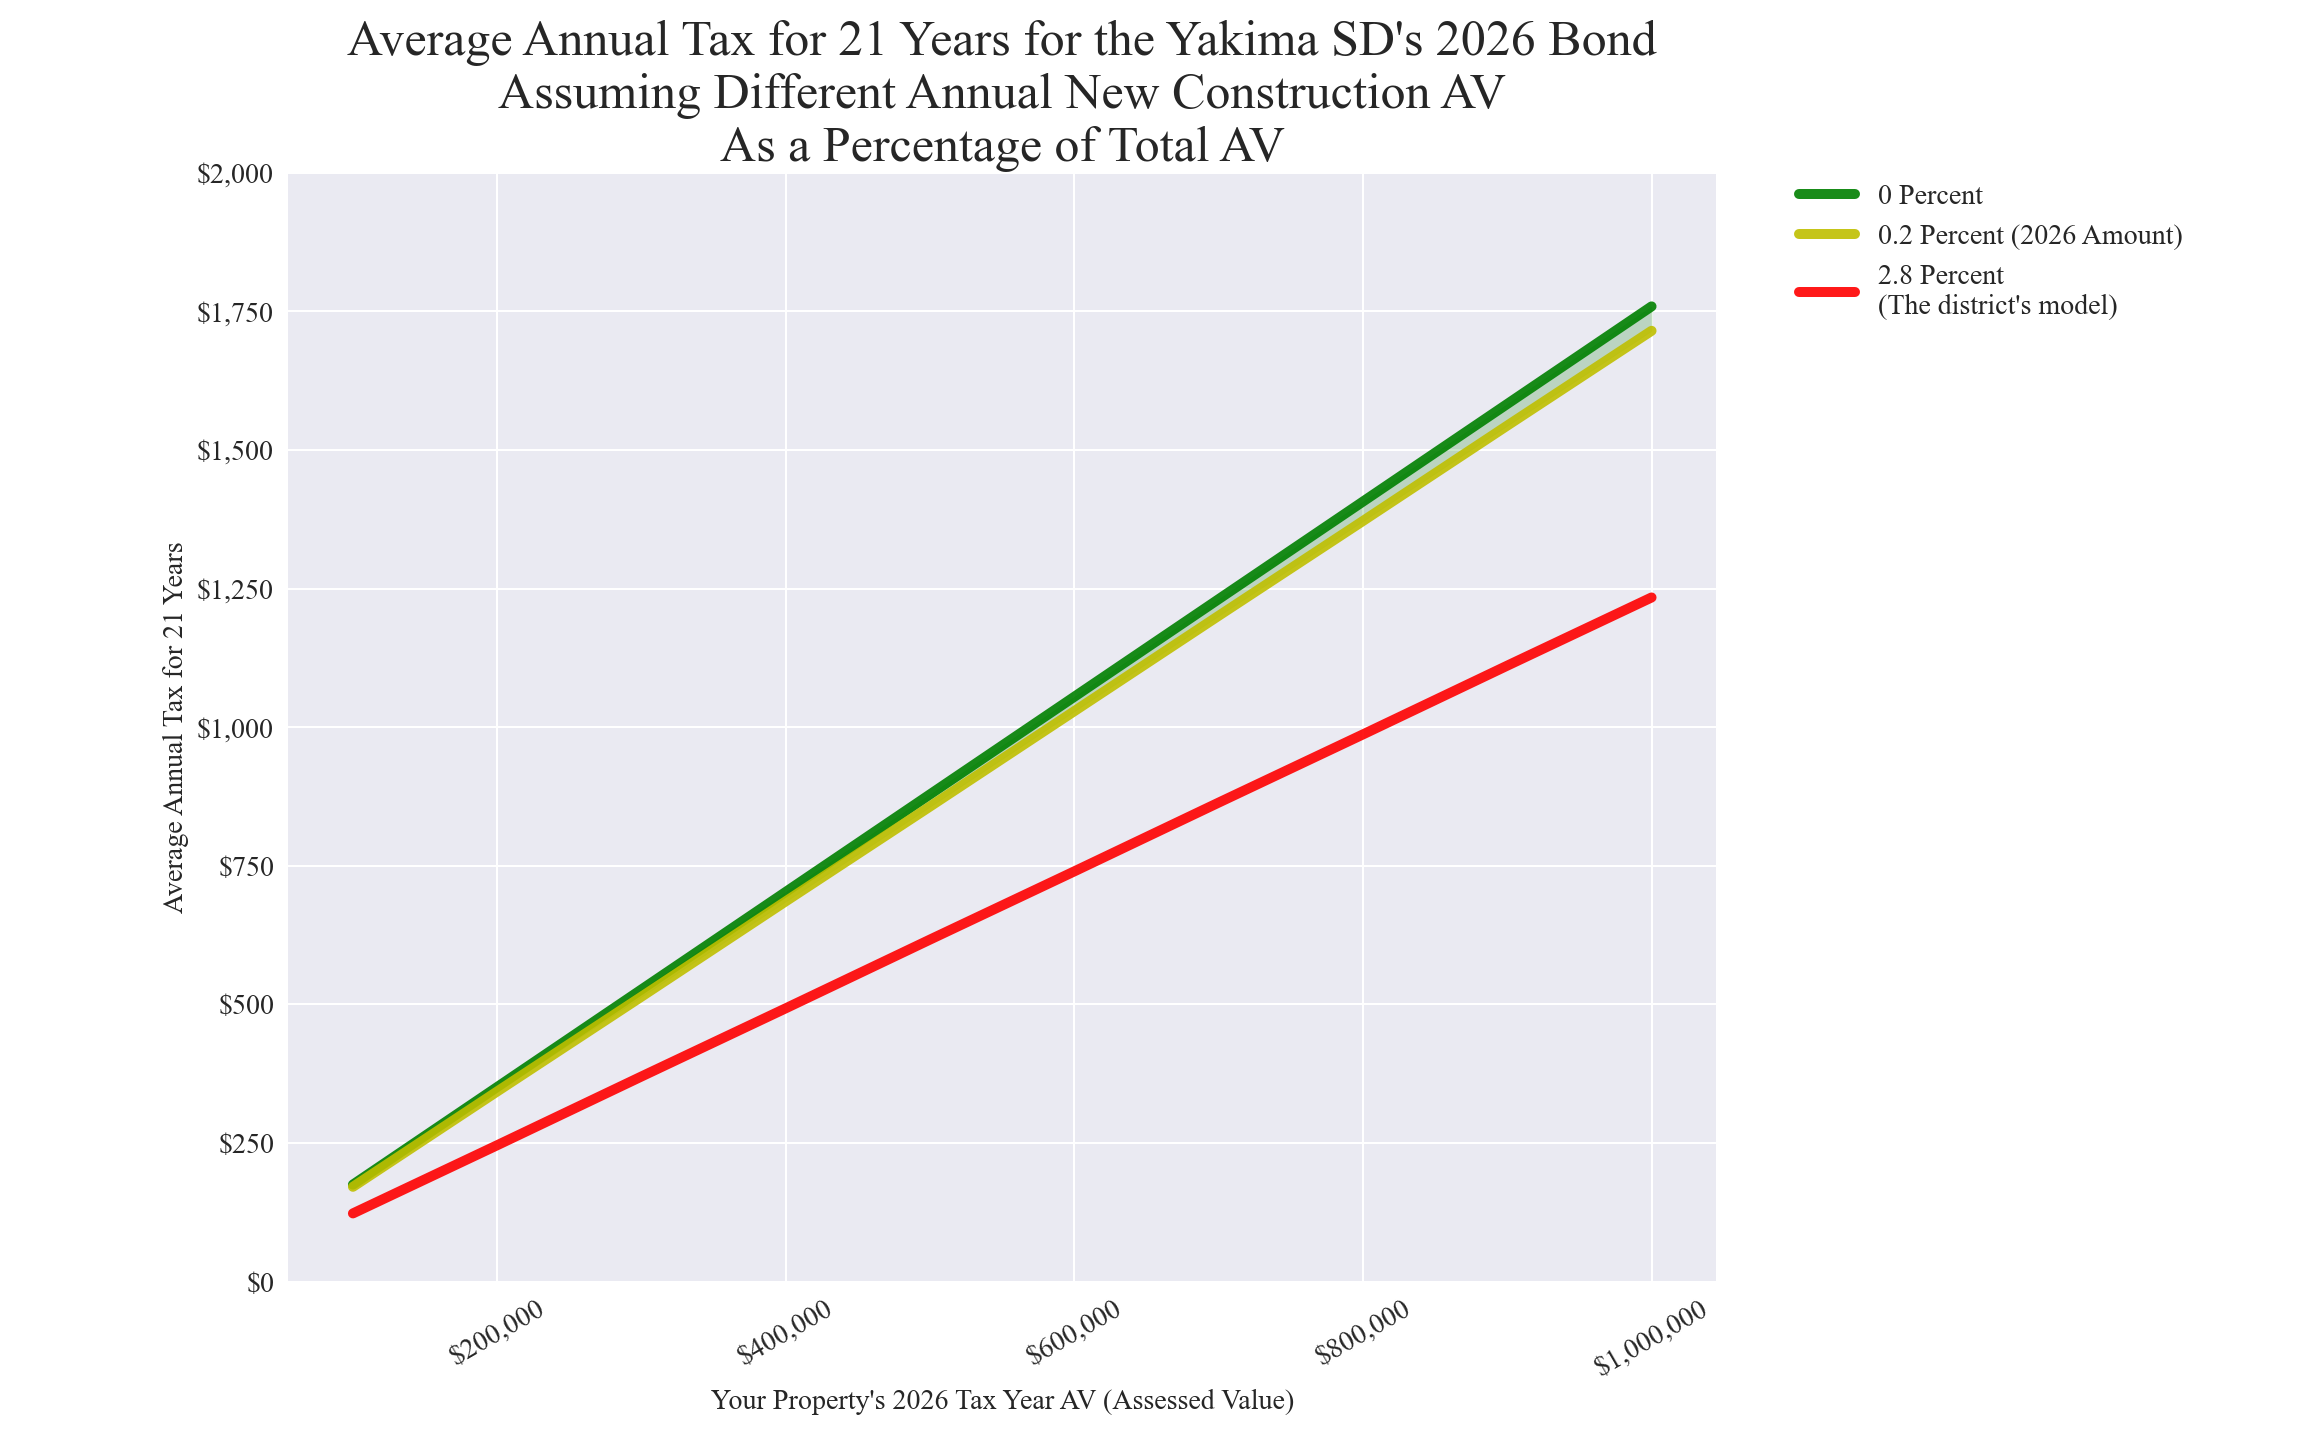
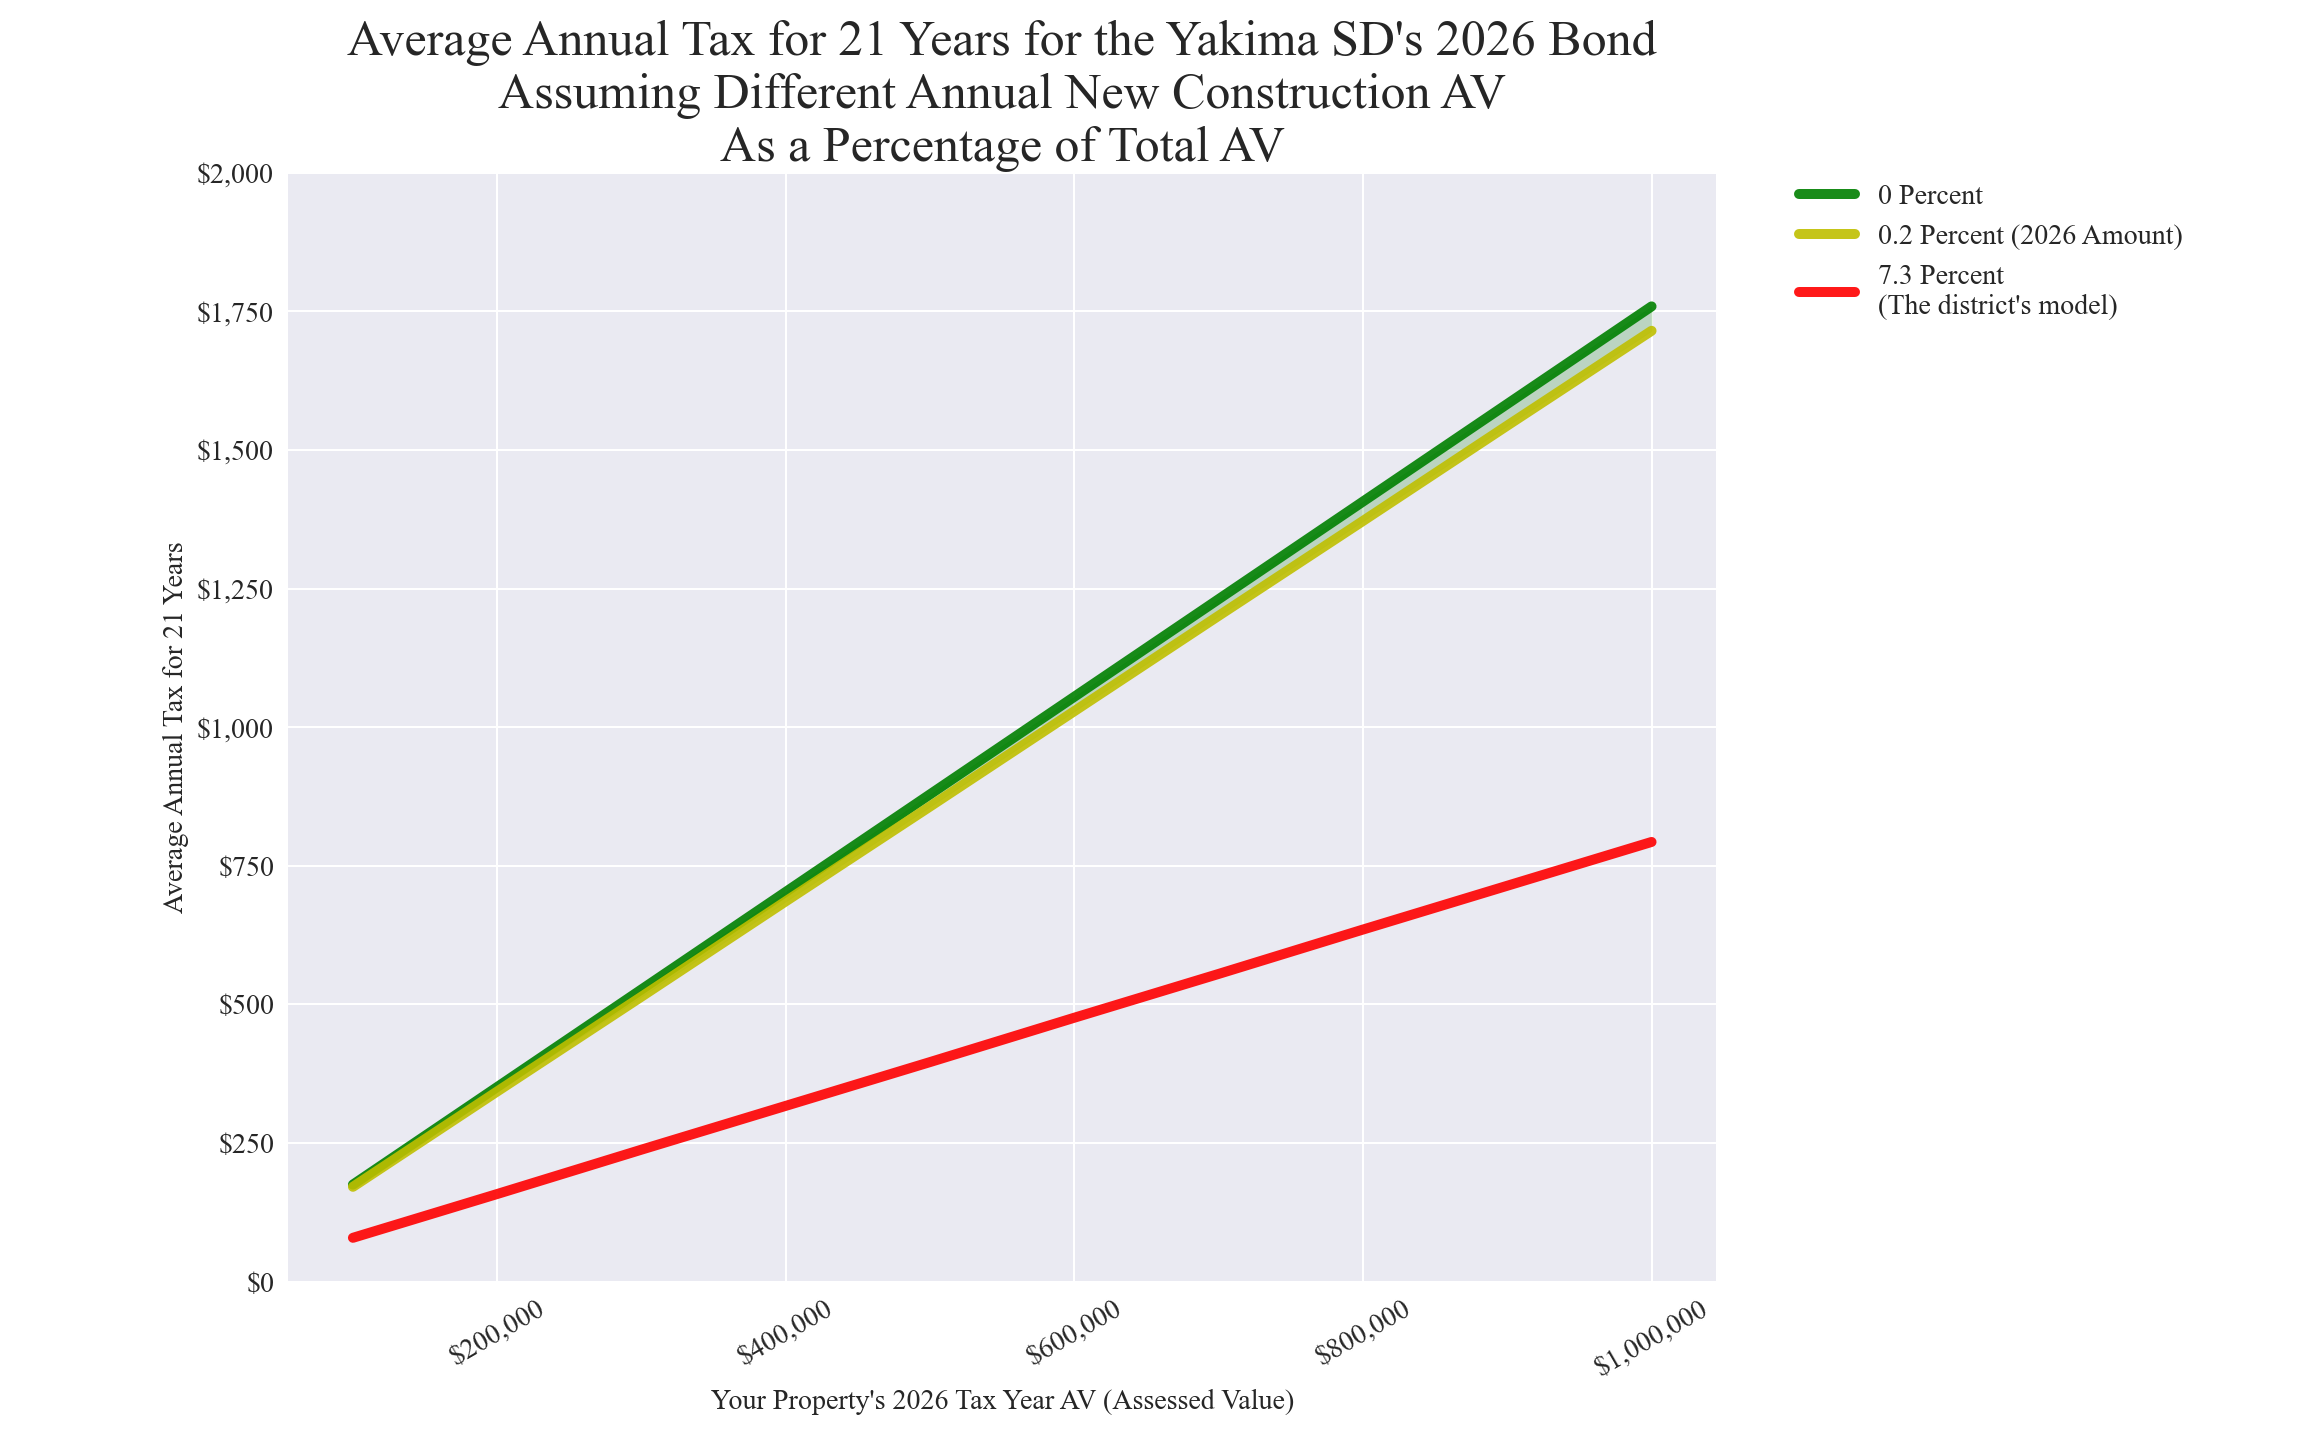
Updated elec 20260428

diff --git a/pagesManual/LeviesReport/report_levies_20260428.md b/pagesManual/LeviesReport/report_levies_20260428.md
@@ -4,7 +4,7 @@ title: School District Tax Measures April 28th 2026
 permalink: report_levies_20260428
 ---
 
-Last updated: March 30th, 2026
+Last updated: April 17th, 2026
 
 As analyses are completed, summary results will be provided on this page.
 
@@ -13,6 +13,7 @@ As analyses are completed, summary results will be provided on this page.
     - Overview
 - Tax measure details
 	- All tax measures (bonds, enrichment levies, capital levies) by county
+- Highlights
 - Bond summary
     - Total bond cost to local taxpayers
 	- Total bond cost to owners of properties with 2026 assessed values of $500,000
@@ -62,18 +63,41 @@ ___
 
 ___
 
+
+## Highlights
+Effective Tax Rate tables have been added for each school district tax measure. Effective tax rates take into account the district’s estimated tax rate and the district’s assumed Total Assessed Value (TAV) growth rates for 
+the future years of each proposed tax measure. 
+From these tables, the districts’ errors in their version of a cost estimate for their local taxpayers were calculated and are shown.
+
+The Lynden SD’s cost estimate for its capital levy is the most accurate with a 4% error.
+
+The Yakima SD’s cost estimate for its bond is the least accurate with a 122% error.
+
+![Yakima SD Tax Rate Table](pagesManual/LeviesReport/20260428/YakimaBondRatesTable.png "Yakima SD Tax Rate Table")
+
+<p style="text-align: left;">Figure 1.</p>
+
+The reason the Yakima SD has such a high error is that the district incorrectly used the 0.79 tax rate as developed by their bond management company. 
+But that estimated rate was only for the first 2 years of the 21 year repayment schedule as shown in Figure 2. The estimated tax rate for the new bond for the remaining 19 years is significantly higher.
+
+![Yakima SD Bond Levy Projection Datasheet](pagesManual/LeviesReport/20260428/YakimaSDBondDatasheet.png "Yakima SD Bond Levy Projection Datasheet")
+
+<p style="text-align: left;">Figure 2.</p>
+
+___
+
 ## Bond summary
 ### Total bond cost to local property taxpayers in each school district tax area with a bond measure
 ![Bond totals: principal + estimated interest and fees](pagesManual/LeviesReport/20260428/BondSummaryTotals.png "Bond totals")
 
-<p style="text-align: left;">Figure 1.</p>
+<p style="text-align: left;">Figure 3.</p>
 
 Data source: Each district's bond/levy projection datasheet
 
 ### Total bond cost to owners of properties with 2026 assessed values (AVs) of $500,000
 ![Bond totals for example properties: principal + estimated interest and fees](pagesManual/LeviesReport/20260428/BondSummaryParcels.png "Bond totals")
 
-<p style="text-align: left;">Figure 2.</p>
+<p style="text-align: left;">Figure 4.</p>
 
 $500,000 was chosen since it is approximately the median of the median home AVs in the school districts with tax measures.
 
@@ -94,12 +118,12 @@ ___
 ### Total enrichment levy cost to local property taxpayers in each school district tax area with an enrichment levy measure
 ![Enrichment levy totals group 1](pagesManual/LeviesReport/20260428/LevySummaryTotals-1.png "Levy totals")
 
-<p style="text-align: center;">Figure 3</p>
+<p style="text-align: left;">Figure 5</p>
 
 ### Average annual enrichment levy cost to owners of properties with 2026 assessed values (AVs) of $500,000
 ![Average annual enrichment levy cost for example properties group 1](pagesManual/LeviesReport/20260428/LevySummaryParcels-1.png "Levy average annual cost")
 
-<p style="text-align: center;">Figure 4</p>
+<p style="text-align: left;">Figure 6</p>
 
 ___
 
@@ -108,12 +132,12 @@ ___
 ### Total capital levy cost to local property taxpayers in each school district tax area with a capital levy measure
 ![Capital levy totals](pagesManual/LeviesReport/20260428/CapitalLevySummaryTotals-1.png "Levy totals")
 
-<p style="text-align: center;">Figure 5</p>
+<p style="text-align: left;">Figure 7</p>
 
 ### Average annual capital levy cost to owners of properties with 2026 assessed values (AVs) of $500,000
 ![Average annual capital levy cost for example properties](pagesManual/LeviesReport/20260428/CapitalLevySummaryParcels-1.png "Levy average annual cost")
 
-<p style="text-align: center;">Figure 6</p>
+<p style="text-align: left;">Figure 8</p>
 
 ___
 
@@ -121,7 +145,7 @@ ___
 
 ![All tax measures total amounts](pagesManual/LeviesReport/20260428/AllMeasuresSummaryTotals.png "All tax measures")
 
-<p style="text-align: center;">Figure 7</p>
+<p style="text-align: left;">Figure 9</p>
 
 ### Bonds
 
@@ -171,7 +195,11 @@ LVP pro/con statement statistics by county
 
 ![Percent of tax measures with LVP pro statements by county](pagesManual/LeviesReport/20260428/CountyLVPPro.png "LVP Pro Statements")
 
+<p style="text-align: left;">Figure 10</p>
+
 ![Percent of tax measures with LVP con statements](pagesManual/LeviesReport/20260428/CountyLVPCon.png "LVP Con Statements")
+
+<p style="text-align: left;">Figure 11</p>
 
 Note: The number of school district tax measures for each county is shown in parentheses.
 

diff --git a/pagesManual/LeviesReport/20260428/SpokaneCountyMeasures20260428.md b/pagesManual/LeviesReport/20260428/SpokaneCountyMeasures20260428.md
@@ -19,6 +19,10 @@ ___
 
 
 
+The district's estimated tax rates, assumed TAV growth, and the Effective tax rates.
+
+![East Valley SD bond effective rates](pagesManual/LeviesReport/20260428/EastValleyBondRatesTable.png "East Valley SD bond effective rates")
+
 ___
 
 ### Nine Mile Falls SD
@@ -31,5 +35,9 @@ ___
 [Link to the interactive cost impact estimating calculator version 2 {shows how guesstimated future levy tax rates are meaningless}](table_nine_mile_falls_capital_levy_20260428){:target="_blank" rel="noopener"}
 
  
+The district's estimated tax rates, assumed TAV growth, and the Effective tax rates for the Enrichment Levy tax measure.
+
+![Nine Mile Falls SD capital effective levy rates](pagesManual/LeviesReport/20260428/NineMileFallsCapitalLevyRatesTable.png "Nine Mile Falls SD capital effective levy rates")
+
 ___
 

diff --git a/pagesManual/LeviesReport/20260428/MasonCountyMeasures20260428.md b/pagesManual/LeviesReport/20260428/MasonCountyMeasures20260428.md
@@ -16,5 +16,9 @@ ___
 [Link to the interactive cost impact estimating calculator version 2 {shows how guesstimated future levy tax rates are meaningless}](table_north_mason_enrichment_levy_20260428){:target="_blank" rel="noopener"}
 
  
+The district's estimated tax rates, assumed TAV growth, and the Effective tax rates for the Enrichment Levy tax measure.
+
+![North Mason SD enrichment effective levy rates](pagesManual/LeviesReport/20260428/NorthMasonEnrichmentLevyRatesTable.png "North Mason SD enrichment effective levy rates")
+
 ___
 

diff --git a/pagesManual/LeviesReport/20260428/BentonCountyMeasures20260428.md b/pagesManual/LeviesReport/20260428/BentonCountyMeasures20260428.md
@@ -16,5 +16,9 @@ ___
 [Link to the interactive cost impact estimating calculator version 2 {shows how guesstimated future levy tax rates are meaningless}](table_paterson_enrichment_levy_20260428){:target="_blank" rel="noopener"}
 
  
+The district's estimated tax rates, assumed TAV growth, and the Effective tax rates for the Enrichment Levy tax measure.
+
+![Paterson SD enrichment effective levy rates](pagesManual/LeviesReport/20260428/PatersonEnrichmentLevyRatesTable.png "Paterson SD enrichment effective levy rates")
+
 ___
 

diff --git a/pagesManual/LeviesReport/20260428/KittitasCountyMeasures20260428.md b/pagesManual/LeviesReport/20260428/KittitasCountyMeasures20260428.md
@@ -16,5 +16,9 @@ ___
 [Link to the interactive cost impact estimating calculator version 2 {shows how guesstimated future levy tax rates are meaningless}](table_kittitas_enrichment_levy_20260428){:target="_blank" rel="noopener"}
 
  
+The district's estimated tax rates, assumed TAV growth, and the Effective tax rates for the Enrichment Levy tax measure.
+
+![Kittitas SD enrichment effective levy rates](pagesManual/LeviesReport/20260428/KittitasEnrichmentLevyRatesTable.png "Kittitas SD enrichment effective levy rates")
+
 ___
 

diff --git a/pagesManual/LeviesReport/20260428/ThurstonCountyMeasures20260428.md b/pagesManual/LeviesReport/20260428/ThurstonCountyMeasures20260428.md
@@ -16,5 +16,9 @@ ___
 [Link to the interactive cost impact estimating calculator version 2 {shows how guesstimated future levy tax rates are meaningless}](table_rochester_capital_levy_20260428){:target="_blank" rel="noopener"}
 
  
+The district's estimated tax rates, assumed TAV growth, and the Effective tax rates for the Enrichment Levy tax measure.
+
+![Rochester SD capital effective levy rates](pagesManual/LeviesReport/20260428/RochesterCapitalLevyRatesTable.png "Rochester SD capital effective levy rates")
+
 ___
 

diff --git a/pagesManual/LeviesReport/20260428/FranklinCountyMeasures20260428.md b/pagesManual/LeviesReport/20260428/FranklinCountyMeasures20260428.md
@@ -16,5 +16,9 @@ ___
 [Link to the interactive cost impact estimating calculator version 2 {shows how guesstimated future levy tax rates are meaningless}](table_pasco_enrichment_levy_20260428){:target="_blank" rel="noopener"}
 
  
+The district's estimated tax rates, assumed TAV growth, and the Effective tax rates for the Enrichment Levy tax measure.
+
+![Pasco SD enrichment effective levy rates](pagesManual/LeviesReport/20260428/PascoEnrichmentLevyRatesTable.png "Pasco SD enrichment effective levy rates")
+
 ___
 

diff --git a/pagesManual/LeviesReport/20260428/WhatcomCountyMeasures20260428.md b/pagesManual/LeviesReport/20260428/WhatcomCountyMeasures20260428.md
@@ -16,5 +16,9 @@ ___
 [Link to the interactive cost impact estimating calculator version 2 {shows how guesstimated future levy tax rates are meaningless}](table_lynden_capital_levy_20260428){:target="_blank" rel="noopener"}
 
  
+The district's estimated tax rates, assumed TAV growth, and the Effective tax rates for the Enrichment Levy tax measure.
+
+![Lynden SD capital effective levy rates](pagesManual/LeviesReport/20260428/LyndenCapitalLevyRatesTable.png "Lynden SD capital effective levy rates")
+
 ___
 

diff --git a/pagesManual/LeviesReport/20260428/YakimaCountyMeasures20260428.md b/pagesManual/LeviesReport/20260428/YakimaCountyMeasures20260428.md
@@ -19,5 +19,9 @@ ___
 
 
 
+The district's estimated tax rates, assumed TAV growth, and the Effective tax rates.
+
+![Yakima SD bond effective rates](pagesManual/LeviesReport/20260428/YakimaBondRatesTable.png "Yakima SD bond effective rates")
+
 ___
 
